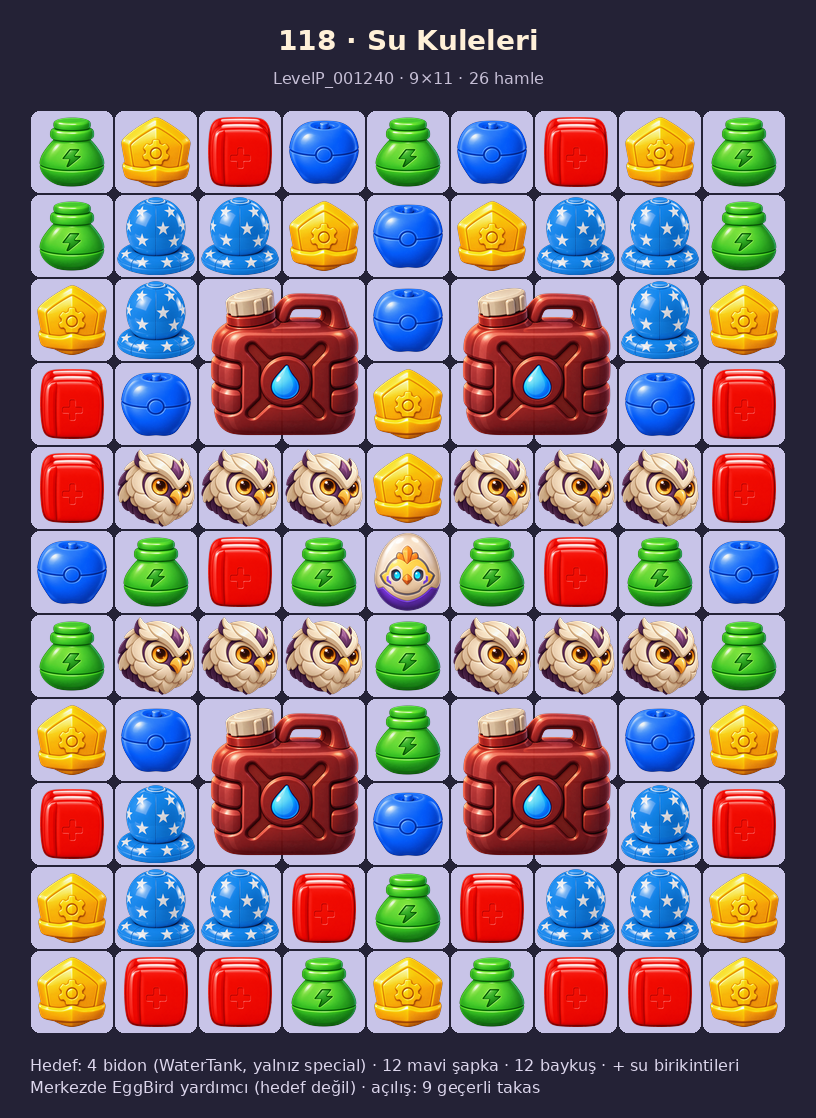
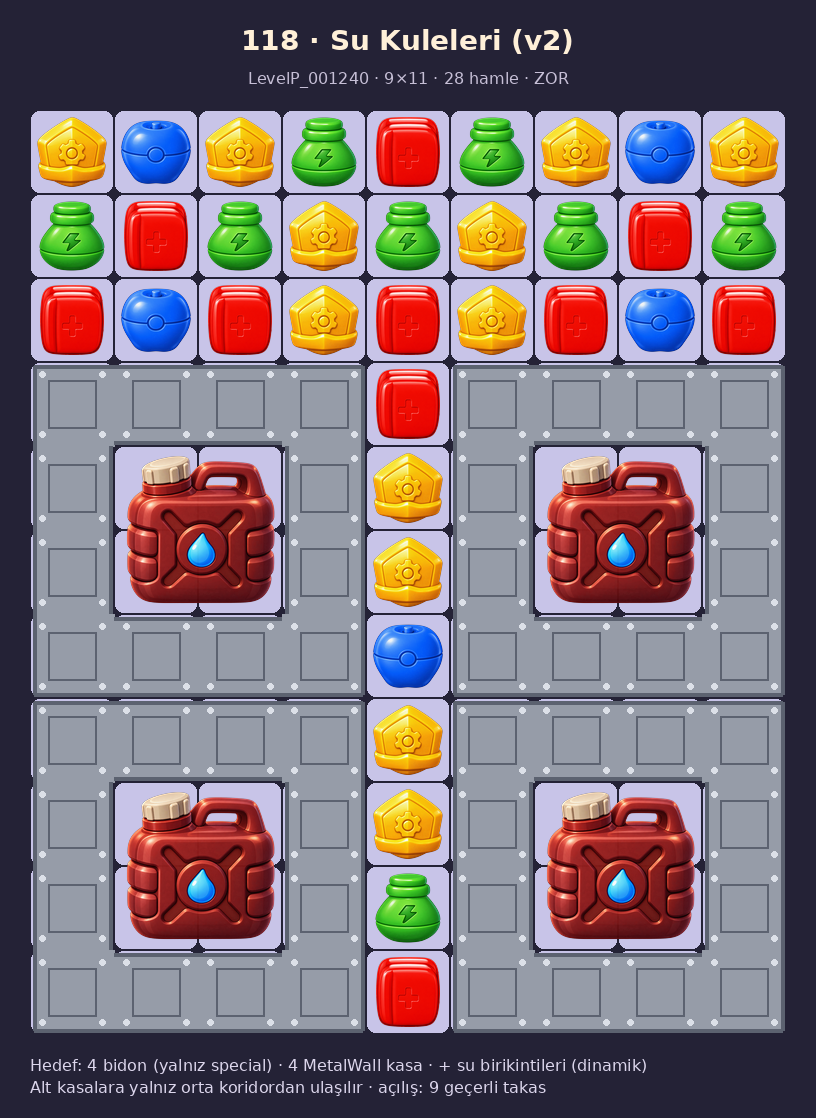
Rework level 118: water tanks locked inside MetalWall boxes
v1 was too easy. v2: four 4x4 boxes, each a 12-cell MetalWall ring
around a 2x2 WaterTank, stacked in the lower 8 rows with a 1-column
corridor between them and three open rows on top. Goals: 4 WaterTank,
4 MetalWall (+ dynamic WaterPuddle). 28 moves. Same asset GUID.

Claude-Session: https://claude.ai/code/session_011SM6jAozhV5f6ndTXzk3GM

diff --git a/Docs/LevelDesign/Level118-Su-Kuleleri.md b/Docs/LevelDesign/Level118-Su-Kuleleri.md
@@ -1,37 +1,40 @@
-# Level 118 — Su Kuleleri
+# Level 118 — Su Kuleleri (v2, zor)
 
-`LevelCatalogPro` global 118 → `LevelP_001240.asset`. Normal level, tam 9×11 board, başlangıç ayarı 26 hamle. Çiçek/çim yok.
+`LevelCatalogPro` global 118 → `LevelP_001240.asset`. Tam 9×11 board, başlangıç ayarı 28 hamle. Çiçek/çim yok.
 
 ## Kompozisyon
 
-Dört kırmızı bidon (WaterTank 2×2) simetrik bir kare oluşturur; her bidonun dış köşesinde 3'lü mavi yıldızlı şapka grubu, bidon çiftleri arasında iki sıra baykuş, merkezde EggBird. Kırmızı/mavi/krem kontrastı; orta sütun ve kenar sütunlar açık eşleşme koridorları.
+Dört 4×4 metal kasa: her biri 12 hücrelik tek parça MetalWall halkası, ortasında 2×2 kırmızı bidon (WaterTank). Kasalar alt 8 satırda iki sütun hâlinde üst üste; aralarında 1 sütunluk orta koridor, üstte 3 açık sıra.
 
 ```text
 ooooooooo
-oBBoooBBo
-oBNNoNNBo
-ooNNoNNoo
-oHHHoHHHo
-ooooeoooo
-oHHHoHHHo
-ooNNoNNoo
-oBNNoNNBo
-oBBoooBBo
 ooooooooo
+ooooooooo
+1111o2222
+1NN1o2NN2
+1NN1o2NN2
+1111o2222
+3333o4444
+3NN3o4NN4
+3NN3o4NN4
+3333o4444
 ```
 
-`o` normal taş, `N` WaterTank (52, 2×2; dört hücre ortak sol-üst origin), `B` Plastic_Blue (11), `H` HelmetPorcelain (30), `e` EggBird (45).
+`o` normal taş, `1`–`4` MetalWall (56) halkaları, `N` WaterTank (52, 2×2; ortak sol-üst origin).
 
 Önizleme: `Level118-Su-Kuleleri.png`.
 
-## Hedefler ve kararlar
+## Hedefler ve zorluk
 
-- 4 WaterTank: iki vuruş, **yalnız special** ile; kırılınca ~8 su birikintisi saçar. Birikinti hedefi HUD'da dinamik olarak eklenir, bu yüzden authored hedef sayısı 3'te tutuldu (HUD 4 sütun).
-- 12 Plastic_Blue: yalnız mavi (Bolt) komşu eşleşmeyle kırılır; açılışta şapkaların yanında mavi taş bolca var.
-- 12 HelmetPorcelain.
-- EggBird yardımcıdır, hedef değildir.
-- 58 açık hücre special üretimi için alan bırakır. Bidonlar altlarındaki sütunları kapatır; orta ve kenar sütunlar ile çapraz akış besler.
+- 4 WaterTank (iki vuruş, yalnız special; kırılınca ~8 su birikintisi, birikinti hedefi HUD'da dinamik eklenir).
+- 4 MetalWall halkası. Ardışık vuruş kuralı: halkanın bir hücresine üst üste hamlelerde vurulursa halka bütün olarak yıkılır.
+- Üst kasalara üstten ve koridordan, alt kasalara yalnız orta koridordan ulaşılır (üst kasaların altı alt kasalara dayalı). Line special'lar halka ve bidona birlikte erişim sağlar.
+- Kasalar alt satırlara dayandığı için altlarında beslenmesi gereken gölge hücre yok; dolum üstteki 3 sıra ve koridordan.
+
+## Revizyon
+
+v1 (dört açık bidon + mavi şapka + baykuş) kolay bulundu. v2'de bidonlar kullanıcının isteğiyle metal kasalara kapatıldı; açık alan 35 hücre.
 
 ## Statik kontrol
 
-Diziler, 2×2 bidonların ortak origin'leri, EggBird origin'i, hedef adetleri ve katalog bağlantısı kontrol edildi. 58 açık taş sağ-sol simetrik sabitlendi; hazır üçlü/2×2 yok, 9 geçerli takas. Unity, bot, build veya simülasyon çalıştırılmadı; 26 hamle ilk tahmin.
+Diziler, 4 halka parçası ve origin'leri, 2×2 bidon origin'leri, hedef adetleri ve katalog bağlantısı (GUID korunarak) kontrol edildi. 35 açık taş simetrik sabitlendi; hazır üçlü/2×2 yok, 9 geçerli takas. Unity, bot, build veya simülasyon çalıştırılmadı; 28 hamle ilk tahmin.
